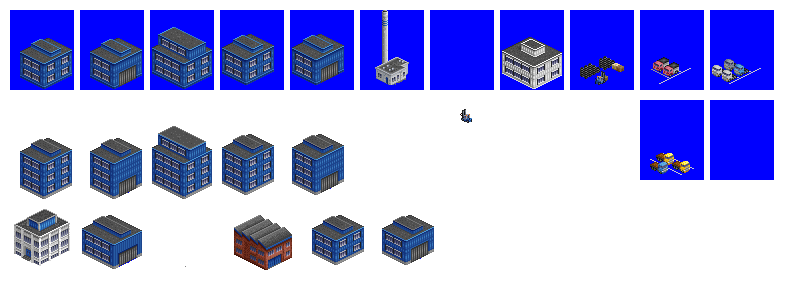
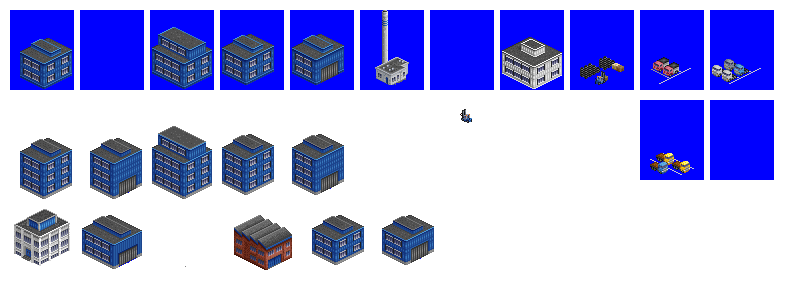
Codechange: remove unused spriteset from Assembly Plant, suppressing an nmlc warning

Changed region(s): [[0.0938, 0.12, 0.1875, 0.3]]

diff --git a/src/industries/assembly_plant.py b/src/industries/assembly_plant.py
@@ -46,11 +46,7 @@ spriteset_1 = industry.add_spriteset(
     sprites = [(10, 10, 64, 80, -31, -49)],
     zextent = 32
 )
-spriteset_2 = industry.add_spriteset(
-    id = 'assembly_plant_spriteset_2',
-    sprites = [(80, 10, 64, 80, -31, -49)],
-    zextent = 32
-)
+# spriteset_2 was deprecated
 spriteset_3 = industry.add_spriteset(
     id = 'assembly_plant_spriteset_3',
     sprites = [(150, 10, 64, 80, -31, -49)],
@@ -113,13 +109,6 @@ industry.add_spritelayout(
     ground_sprite = spriteset_ground,
     ground_overlay = spriteset_ground_overlay,
     building_sprites = [spriteset_1],
-    fences = ['nw','ne','se','sw']
-)
-industry.add_spritelayout(
-    id = 'assembly_plant_spritelayout_rear_assembly_hall_doors',
-    ground_sprite = spriteset_ground,
-    ground_overlay = spriteset_ground_overlay,
-    building_sprites = [spriteset_2],
     fences = ['nw','ne','se','sw']
 )
 industry.add_spritelayout(
